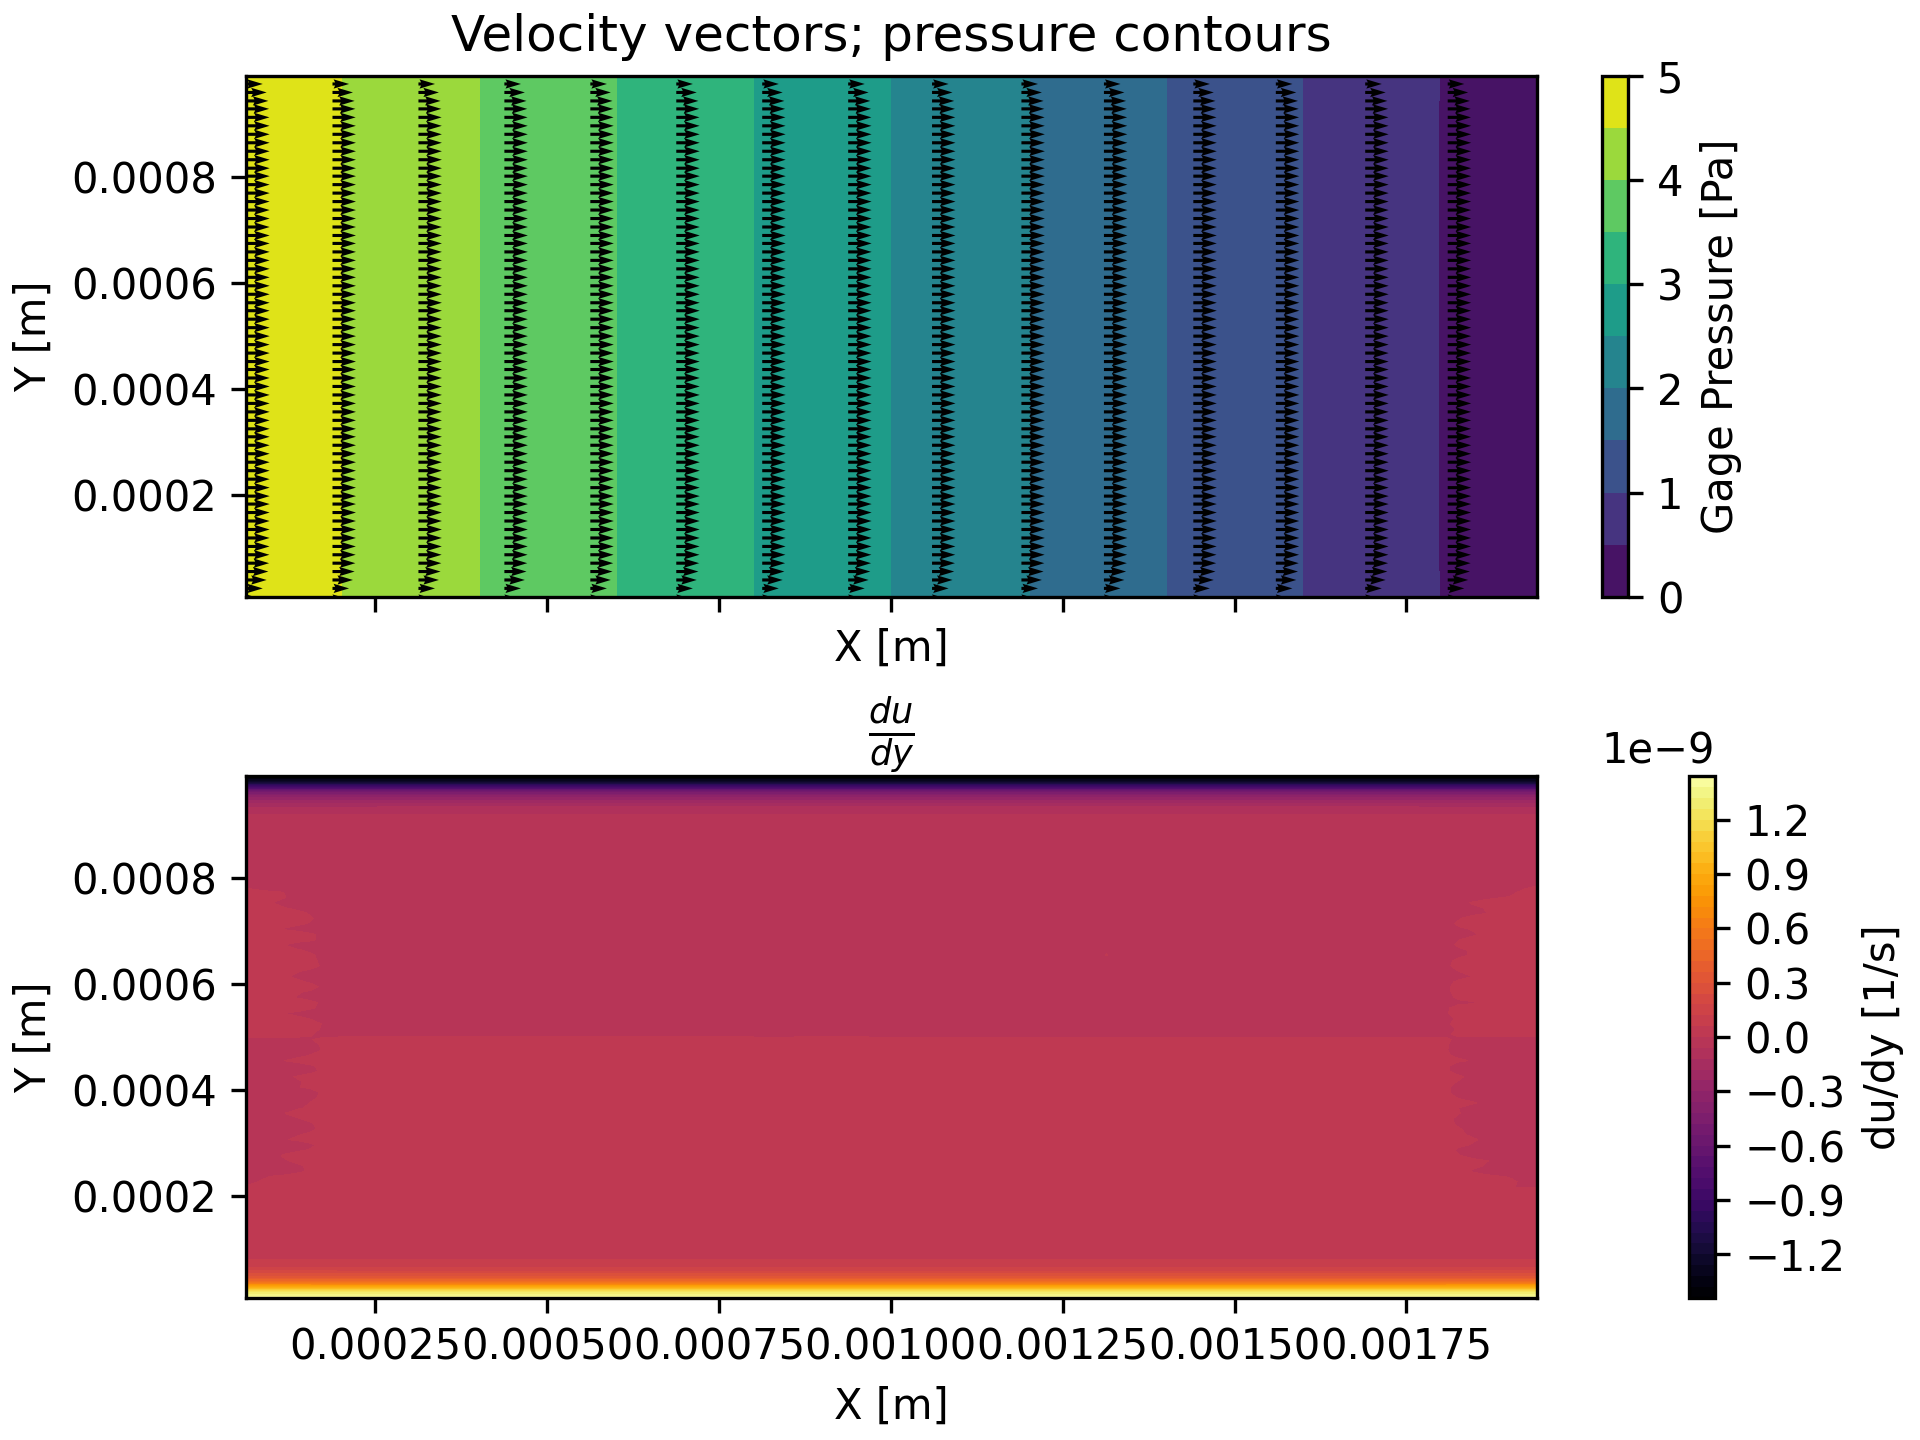
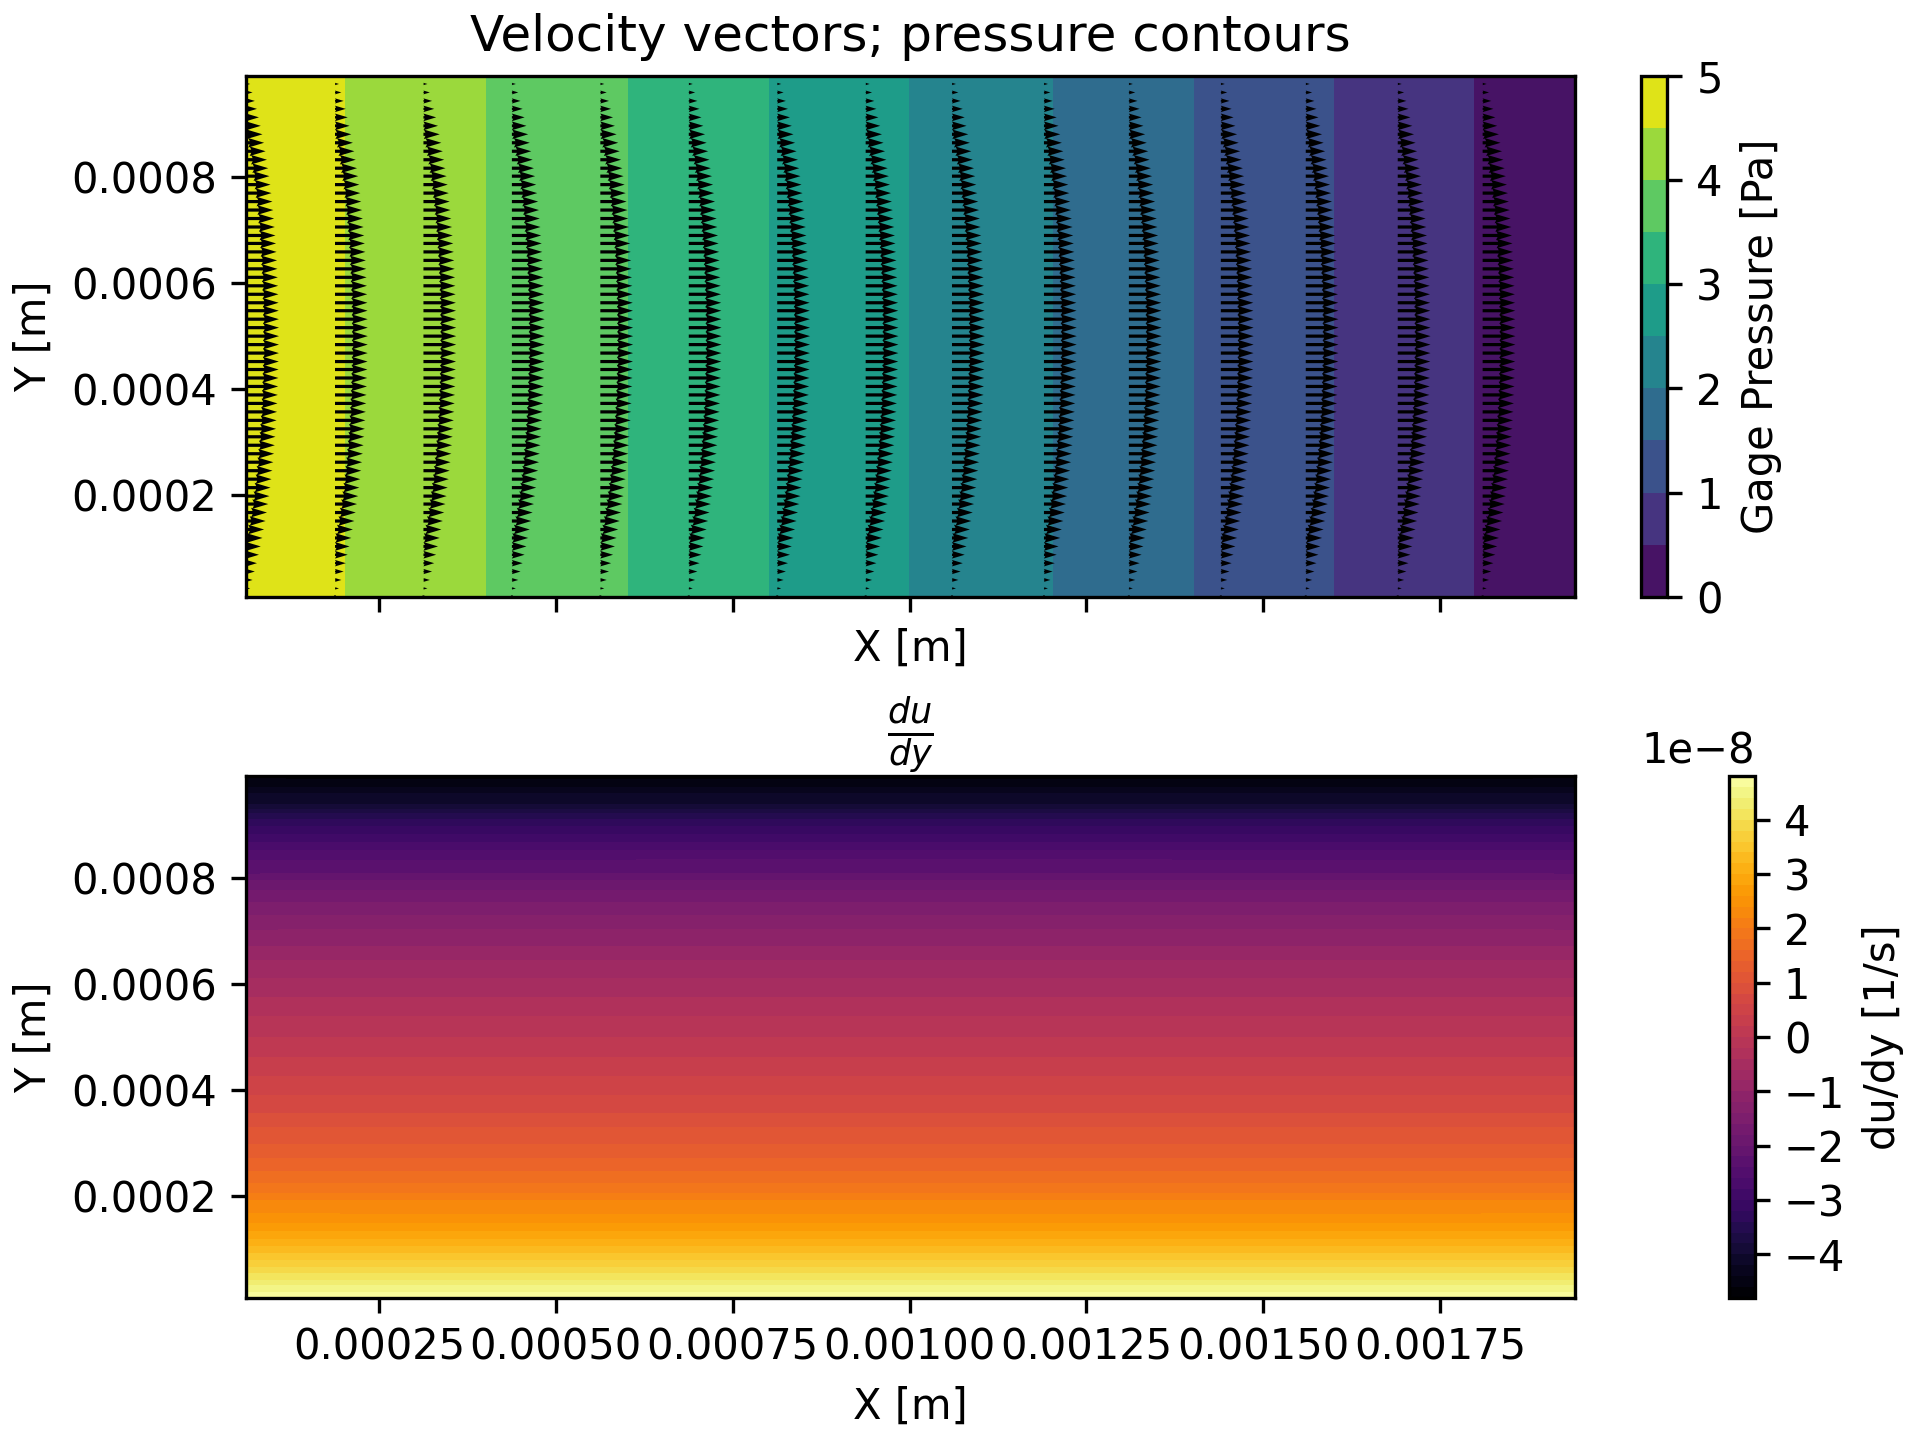
rewrite pressure initialization

diff --git a/src/solver.rs b/src/solver.rs
@@ -79,7 +79,7 @@ pub enum PressureInterpolation {
 #[derive(Copy, Clone)]
 pub enum VelocityInterpolation {
     LinearWeighted,
-    RhieChow, // Rhie-Chow is expensive!
+    RhieChow, // Rhie-Chow is expensive! And it seems to be causing bad unphysical oscillations.
 }
 
 #[derive(Copy, Clone)]
@@ -125,7 +125,7 @@ pub fn solve_steady(
     let mut p = initialize_DVector!(cell_count);
     let mut p_prime = initialize_DVector!(cell_count);
 
-    initialize_pressure_field(mesh, &mut p, 1000);
+    initialize_pressure_field(mesh, &mut p, 1000, numerical_settings);
 
     let a_di = build_momentum_diffusion_matrix(&mesh, numerical_settings.diffusion, mu);
     let mut a = initialize_momentum_matrix(&mesh);
@@ -151,12 +151,23 @@ pub fn solve_steady(
                     &v,
                     &w,
                     &p,
-                    numerical_settings,
+                    numerical_settings.momentum,
+                    if iteration_count > 1 {
+                        numerical_settings.velocity_interpolation
+                    } else {
+                        VelocityInterpolation::LinearWeighted
+                    },
+                    if iteration_count > 1 {
+                        numerical_settings.pressure_interpolation
+                    } else {
+                        PressureInterpolation::LinearWeighted
+                    },
+                    numerical_settings.gradient_reconstruction,
                     rho,
                 );
                 // WARNING: CHANGE THIS!!!
-                a = &a + &a_di;
-                // a = a_di.clone();
+                // a = &a + &a_di;
+                a = a_di.clone();
                 if log_enabled!(log::Level::Debug) {
                     println!("\nMomentum:");
                     print_linear_system(&a, &b_u);
@@ -291,7 +302,12 @@ pub fn solve_steady(
     (u, v, w, p)
 }
 
-fn initialize_pressure_field(mesh: &mut Mesh, p: &mut DVector<Float>, iteration_count: Uint) {
+fn initialize_pressure_field(
+    mesh: &mut Mesh,
+    p: &mut DVector<Float>,
+    iteration_count: Uint,
+    numerical_settings: &NumericalSettings,
+) {
     // TODO
     // Solve laplace's equation (nabla^2 psi = 0) based on BCs:
     // - Wall: d/dn (psi) = 0
@@ -299,29 +315,16 @@ fn initialize_pressure_field(mesh: &mut Mesh, p: &mut DVector<Float>, iteration_
     // - Outlet: psi = 0
     for _ in 0..iteration_count {
         for cell_index in 0..mesh.cells.len() {
-            let mut p_i = 0.;
             let cell = &mesh.cells[&cell_index];
-            for face_index in &cell.face_indices {
-                // TODO: rewrite face_zone nonsense
-                let face_zone = &mesh.faces[&face_index].zone;
-                p_i += match &mesh.face_zones[face_zone].zone_type {
-                    FaceConditionTypes::Wall | FaceConditionTypes::Symmetry => p[cell_index],
-                    FaceConditionTypes::PressureInlet | FaceConditionTypes::PressureOutlet => {
-                        mesh.face_zones[face_zone].scalar_value
-                    }
-                    FaceConditionTypes::Interior => {
-                        mesh.faces[&face_index]
-                            .cell_indices
-                            .iter()
-                            .map(|neighbor_cell_index| p[*neighbor_cell_index])
-                            .sum::<Float>()
-                            / 2.
-                    }
-                    _ => panic!("unsupported face zone type for initialization"),
-                }
-            }
-            let cell = mesh.cells.get_mut(&cell_index).unwrap();
-            p[cell_index] = p_i / (cell.face_indices.len() as Float);
+            p[cell_index] = cell.face_indices.iter().map(|face_index| {
+                get_face_pressure(
+                    &mesh,
+                    &p,
+                    *face_index,
+                    PressureInterpolation::LinearWeighted,
+                    numerical_settings.gradient_reconstruction,
+                )
+            }).sum::<Float>() / (cell.face_indices.len() as Float);
         }
     }
     // print!("\n\n");
@@ -669,7 +672,10 @@ fn build_momentum_matrices(
     v: &DVector<Float>,
     w: &DVector<Float>,
     p: &DVector<Float>,
-    numerical_settings: &NumericalSettings,
+    momentum_discretization: MomentumDiscretization,
+    velocity_interpolation: VelocityInterpolation,
+    pressure_interpolation: PressureInterpolation,
+    gradient_reconstruction: GradientReconstructionMethods,
     rho: Float,
 ) {
     // Iterate over all cells in the mesh
@@ -704,8 +710,8 @@ fn build_momentum_matrices(
                 &p,
                 *face_index,
                 *cell_index,
-                numerical_settings.velocity_interpolation,
-                numerical_settings.gradient_reconstruction,
+                velocity_interpolation,
+                gradient_reconstruction,
                 &a,
             );
             // println!("cell {cell_number}, face {face_number}: velocity = {face_velocity:?}");
@@ -718,8 +724,8 @@ fn build_momentum_matrices(
                 mesh,
                 &p,
                 *face_index,
-                numerical_settings.pressure_interpolation,
-                numerical_settings.gradient_reconstruction,
+                pressure_interpolation,
+                gradient_reconstruction,
             );
             let neighbor_cell_index = if face.cell_indices.len() == 1 {
                 usize::MAX
@@ -747,7 +753,7 @@ fn build_momentum_matrices(
                 );
             }
 
-            let a_nb: Float = match numerical_settings.momentum {
+            let a_nb: Float = match momentum_discretization {
                 MomentumDiscretization::UD => {
                     // Neighbor only affects this cell if flux is into this
                     // cell => f_i < 0. Therefore, if f_i > 0, we set it to 0.

diff --git a/src/main.rs b/src/main.rs
@@ -11,9 +11,6 @@ use orc::mesh::*;
 use orc::solver::*;
 use std::env;
 
-const PRESSURE_RELAXATION: Float = 1.0;
-const MOMENTUM_RELAXATION: Float = 1.0;
-
 fn validate_solvers() {
     const TOL: Float = 1e-6;
 
@@ -23,8 +20,8 @@ fn validate_solvers() {
     // | 2 0 4 |   | 1 |
     //
     // | 1 0 0 |   | 11/6 |   | 1.833 |
-    // | 0 1 0 |   | 10/9 |   | 1.111 |
-    // | 0 0 1 | = | -2/3 | = | -0.67 |
+    // | 0 1 0 | = | 10/9 | = | 1.111 |
+    // | 0 0 1 |   | -2/3 |   | -0.67 |
     let mut a_coo: CooMatrix<Float> = CooMatrix::new(3,3);
     a_coo.push(0, 0, 2.);
     a_coo.push(0, 2, 1.);
@@ -348,7 +345,12 @@ fn couette(iteration_count: Uint, momentum_relaxation: Float, pressure_relaxatio
     mesh.get_face_zone("PERIODIC_+Z").zone_type = FaceConditionTypes::Symmetry;
 
     let settings = NumericalSettings {
-        matrix_solver_iterations: 10,
+        momentum_relaxation: 0.2,
+        pressure_relaxation: 0.2,
+        matrix_solver_iterations: 1000,
+        matrix_solver_relaxation: 0.1,
+        pressure_interpolation: PressureInterpolation::LinearWeighted,
+        velocity_interpolation: VelocityInterpolation::LinearWeighted,
         ..NumericalSettings::default()
     };
 

diff --git a/src/io.rs b/src/io.rs
@@ -503,11 +503,10 @@ pub fn read_mesh(mesh_path: &str) -> Mesh {
     }
 }
 
-pub fn read_data() {}
 
 pub fn read_settings() {}
 
-pub fn write_mesh() {}
+pub fn read_data() {}
 
 pub fn write_data(
     mesh: &Mesh,
